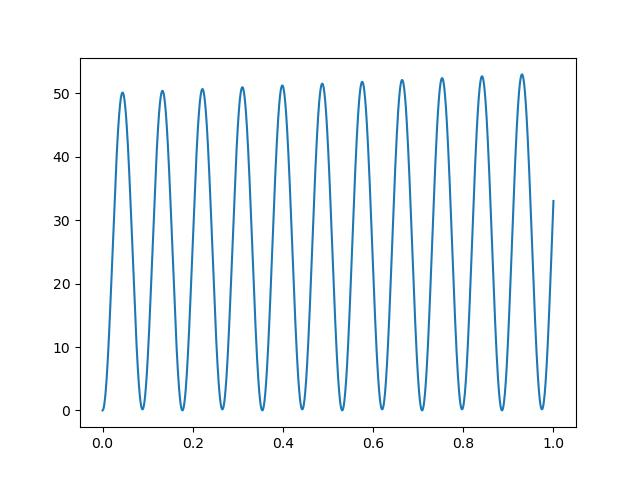
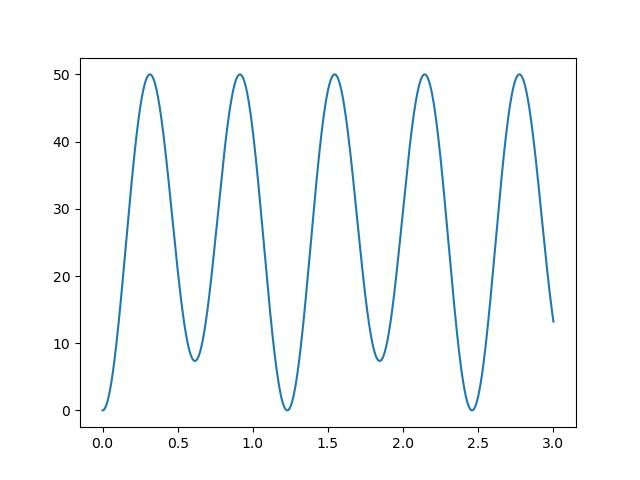
Jun 18 2024

diff --git a/point_charges.py b/point_charges.py
@@ -8,27 +8,40 @@ import reduced_parameter as red
 Testing electromagnetic.py
 """
 
-k_vector = np.array([[0,0,1]]) / red.c
-amplitude = np.array(
-        [np.random.uniform(size = 2) * 100 + np.random.uniform(size = 2) * 100j]
-        )
+k_vector = np.array([
+    [0,0,1],
+    [0,1,0],
+    #[0,1,1]
+    ]) / (red.c)
+amplitude = np.vstack([
+    np.random.uniform(size = 2) * 10 + np.random.uniform(size = 2) * 10j,
+    np.random.uniform(size = 2) * 10 + np.random.uniform(size = 2) * 10j,
+    #np.random.uniform(size = 2) * 10 + np.random.uniform(size = 2) * 10j
+    ])
 
 Afield = FreeFieldVectorPotential(
         k_vector = k_vector, amplitude = amplitude,
-        V = 1.0, constant_c = red.c
+        V = 1.0, constant_c = red.c,
         )
+
+print(Afield.pol_vec)
+"""
+print(Afield.k_val)
+print(Afield.omega)
+raise Exception
+"""
 
 #simple point charge
 r = np.array([[1.0,1.0,1.0]])
 v = np.array([[1.0,0.0,0.0]]) * 10
-q = np.array([10 * np.eye(3)])
+q = np.array([np.eye(3)])
 m = 1
 
 t = 0
 h = 1e-4
 
 def current(r_dot, q):
-    return np.einsum("nii,ni->ni",q,r_dot)
+    return np.einsum("nij,ni->nj",q,r_dot)
 
 def EM_force(t, r, r_dot, q, A):
 
@@ -64,7 +77,7 @@ time = [0]
 
 #first iteration w/ Euler integration (and trapezoidal rule)
 
-for i in range(10000):
+for i in range(30000):
     force = EM_force(t, r, v, q, Afield)
     v_half = v + force * h / 2
     r_new = r + v_half * h
@@ -72,9 +85,9 @@ for i in range(10000):
     new_force = EM_force(t + h, r_new, v_half, q, Afield)
     v_new = v_half + new_force * h / 2
 
-    C_1 = Afield.dot_amplitude(t,r,current(v,q))
+    #C_1 = Afield.dot_amplitude(t,r,current(v,q))
     C_2 = Afield.dot_amplitude(t+h,r_new,current(v_new,q))
-    C_new = Afield.C + h * (C_1 + C_2) / 2
+    C_new = Afield.C + h * C_2
 
     t += h
     r = r_new

diff --git a/electromagnetic.py b/electromagnetic.py
@@ -27,7 +27,7 @@ class FreeFieldVectorPotential:
         self.V = V
         self.constant_c = constant_c
 
-        if pol_vec == None:
+        if pol_vec is None:
             self.pol_vec = []
 
             for k_vec in self.k_vector:
@@ -96,7 +96,7 @@ class FreeFieldVectorPotential:
         k_vec = self.k_vector
         pol_vec = self.pol_vec
 
-        omega = self.omega
+        omega = np.tile(self.omega[:,np.newaxis], (1,2))
 
         k_val = np.tile(self.k_val[:,np.newaxis],(1,2))
 
@@ -110,7 +110,7 @@ class FreeFieldVectorPotential:
 
         C_dot = np.einsum("kij,kj->ki",pol_vec, Jk) #i = 2, j = 3
 
-        C_dot *= (2 * np.pi * 1j / k_val) * np.exp(1j * self.omega * t)
+        C_dot *= (2 * np.pi * 1j / k_val) * np.exp(1j * omega * t)
 
         return C_dot
 
@@ -121,10 +121,10 @@ class FreeFieldVectorPotential:
         C_dot = self.dot_amplitude(t, Rp, current)
         omega = np.tile(self.omega[:,np.newaxis], (1,2))
 
-        dA1 = self.__call__(t, R, C_dot)
-        dA2 = self.__call__(t, R, -1j * omega * self.C)
+        dA = self.__call__(
+                t, R, amplitude = -1j * omega * self.C + C_dot)
 
-        return dA1 + dA2
+        return dA
 
     def gradient(self, t, R):
         """
